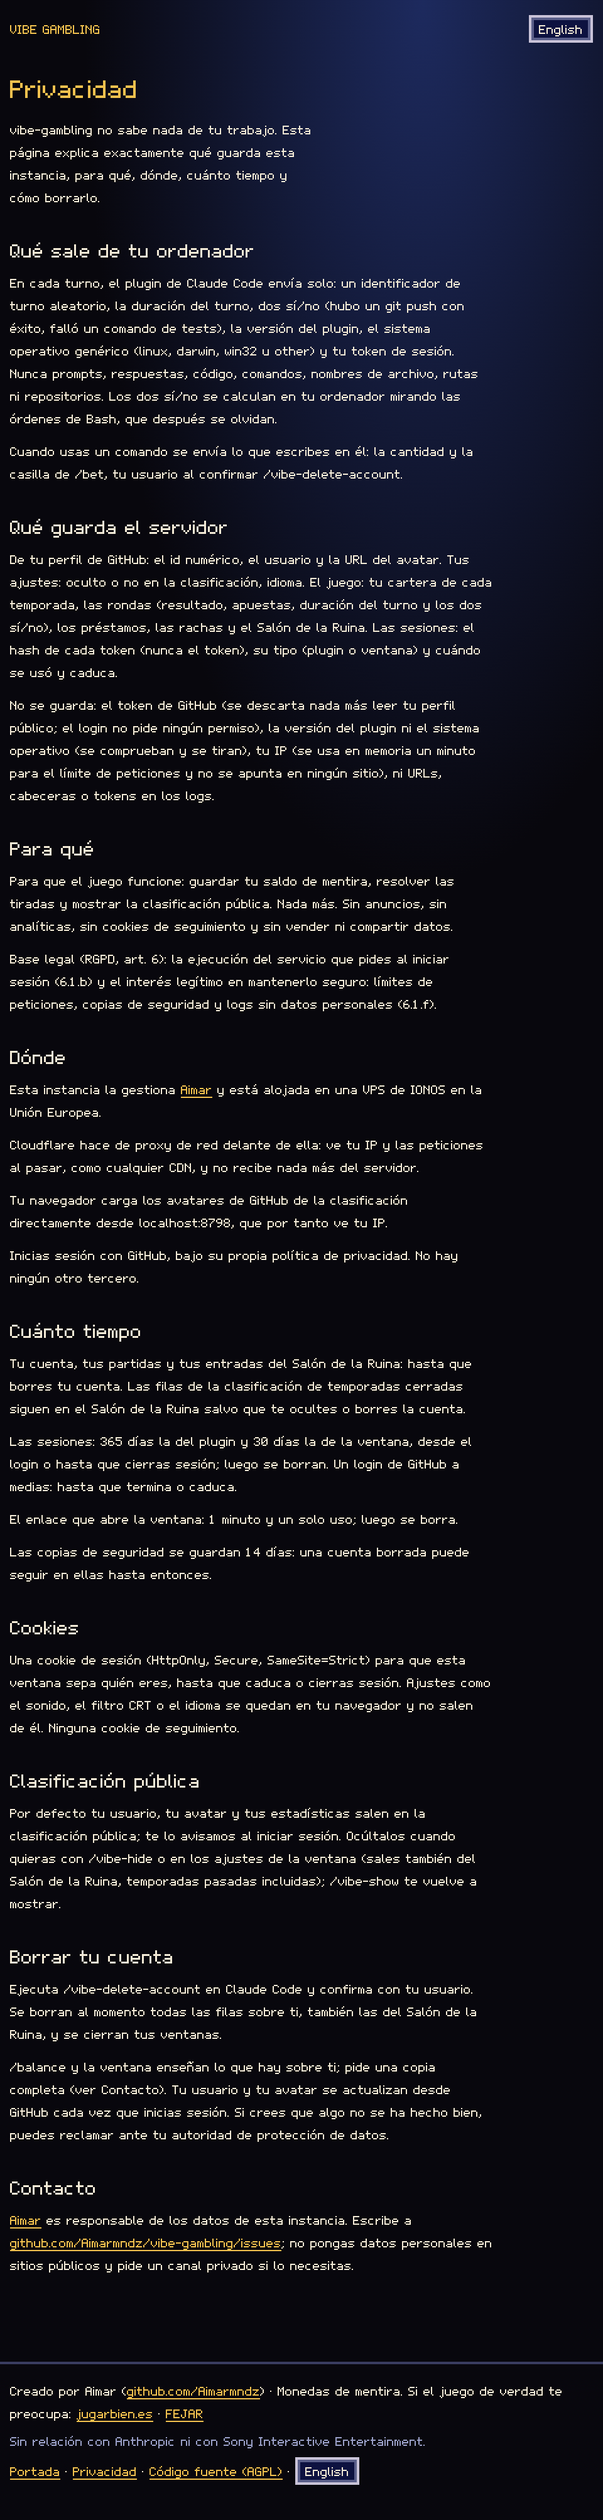
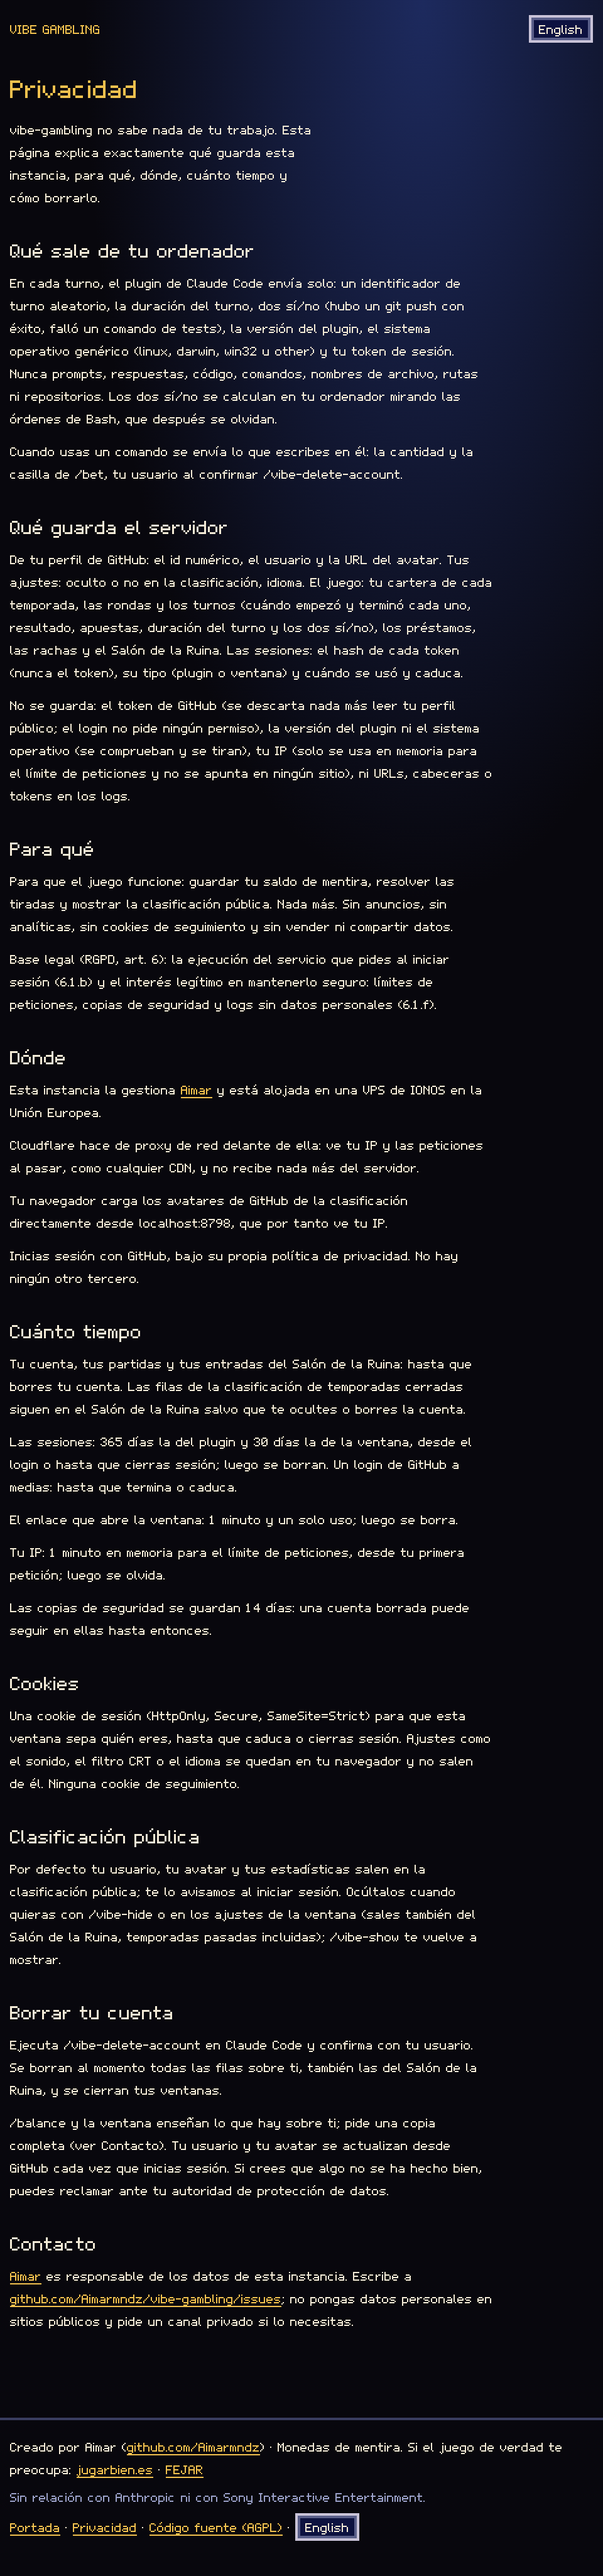
fix: cuenta en /privacy cuánto vive la IP en memoria y que se guarda la hora de cada turno

diff --git a/packages/web/src/i18n/es.ts b/packages/web/src/i18n/es.ts
@@ -291,9 +291,9 @@ export const es: Messages = {
     'Cuando usas un comando se envía lo que escribes en él: la cantidad y la casilla de /bet, tu usuario al confirmar /vibe-delete-account.',
   'privacy.stored.title': 'Qué guarda el servidor',
   'privacy.stored.body':
-    'De tu perfil de GitHub: el id numérico, el usuario y la URL del avatar. Tus ajustes: oculto o no en la clasificación, idioma. El juego: tu cartera de cada temporada, las rondas (resultado, apuestas, duración del turno y los dos sí/no), los préstamos, las rachas y el Salón de la Ruina. Las sesiones: el hash de cada token (nunca el token), su tipo (plugin o ventana) y cuándo se usó y caduca.',
+    'De tu perfil de GitHub: el id numérico, el usuario y la URL del avatar. Tus ajustes: oculto o no en la clasificación, idioma. El juego: tu cartera de cada temporada, las rondas y los turnos (cuándo empezó y terminó cada uno, resultado, apuestas, duración del turno y los dos sí/no), los préstamos, las rachas y el Salón de la Ruina. Las sesiones: el hash de cada token (nunca el token), su tipo (plugin o ventana) y cuándo se usó y caduca.',
   'privacy.stored.not':
-    'No se guarda: el token de GitHub (se descarta nada más leer tu perfil público; el login no pide ningún permiso), la versión del plugin ni el sistema operativo (se comprueban y se tiran), tu IP (se usa en memoria un minuto para el límite de peticiones y no se apunta en ningún sitio), ni URLs, cabeceras o tokens en los logs.',
+    'No se guarda: el token de GitHub (se descarta nada más leer tu perfil público; el login no pide ningún permiso), la versión del plugin ni el sistema operativo (se comprueban y se tiran), tu IP (solo se usa en memoria para el límite de peticiones y no se apunta en ningún sitio), ni URLs, cabeceras o tokens en los logs.',
   'privacy.why.title': 'Para qué',
   'privacy.why.body':
     'Para que el juego funcione: guardar tu saldo de mentira, resolver las tiradas y mostrar la clasificación pública. Nada más. Sin anuncios, sin analíticas, sin cookies de seguimiento y sin vender ni compartir datos.',
@@ -314,6 +314,8 @@ export const es: Messages = {
   'privacy.howLong.sessions':
     'Las sesiones: {mod} la del plugin y {web} la de la ventana, desde el login o hasta que cierras sesión; luego se borran. Un login de GitHub a medias: hasta que termina o caduca.',
   'privacy.howLong.link': 'El enlace que abre la ventana: {link} y un solo uso; luego se borra.',
+  'privacy.howLong.ip':
+    'Tu IP: {ip} en memoria para el límite de peticiones, desde tu primera petición; luego se olvida.',
   'privacy.howLong.backups':
     'Las copias de seguridad se guardan {backups}: una cuenta borrada puede seguir en ellas hasta entonces.',
   'privacy.howLong.noBackups': 'Esta instancia no hace copias de seguridad.',

diff --git a/packages/web/src/i18n/en.ts b/packages/web/src/i18n/en.ts
@@ -288,9 +288,9 @@ export const en = {
     'When you use a command, what you type in it is sent too: the amount and square of /bet, your login when confirming /vibe-delete-account.',
   'privacy.stored.title': 'What the server stores',
   'privacy.stored.body':
-    'From your GitHub profile: numeric id, login and avatar URL. Your settings: hidden from the leaderboard or not, language. The game: your wallet per season, rounds (result, bets, turn duration and the two flags), loans, streaks and the Hall of Ruin. Sessions: the hash of each token (never the token itself), its kind (plugin or window) and when it was used and expires.',
+    'From your GitHub profile: numeric id, login and avatar URL. Your settings: hidden from the leaderboard or not, language. The game: your wallet per season, rounds and turns (when each one started and ended, result, bets, turn duration and the two flags), loans, streaks and the Hall of Ruin. Sessions: the hash of each token (never the token itself), its kind (plugin or window) and when it was used and expires.',
   'privacy.stored.not':
-    'Not stored: the GitHub token (thrown away right after reading your public profile; login asks for no permissions), the plugin version or the OS (checked and dropped), your IP address (kept in memory for a minute for rate limiting, never written down), and no URLs, headers or tokens in the logs.',
+    'Not stored: the GitHub token (thrown away right after reading your public profile; login asks for no permissions), the plugin version or the OS (checked and dropped), your IP address (only held in memory for rate limiting, never written down), and no URLs, headers or tokens in the logs.',
   'privacy.why.title': 'Why',
   'privacy.why.body':
     'To run the game: keep your fake balance, resolve spins and show the public leaderboard. Nothing else. No ads, no analytics, no tracking cookies, no data sold or shared.',
@@ -311,6 +311,8 @@ export const en = {
   'privacy.howLong.sessions':
     'Sessions: {mod} for the plugin and {web} for the window, from login or until you log out; then they are deleted. An unfinished GitHub login: until it finishes or expires.',
   'privacy.howLong.link': 'The link that opens the window: {link}, single use; then it is deleted.',
+  'privacy.howLong.ip':
+    'Your IP address: {ip} in memory for rate limiting, counted from your first request; then it is forgotten.',
   'privacy.howLong.backups':
     'Backups are kept for {backups}, so a deleted account may remain in them until then.',
   'privacy.howLong.noBackups': 'This instance keeps no backups.',

diff --git a/packages/web/test/privacy.test.ts b/packages/web/test/privacy.test.ts
@@ -96,11 +96,26 @@ describe('página de privacidad', () => {
     expect(section(withInstance({ backupRetentionDays: 1 }), 'howLong')).toContain('for 1 day,')
   })
 
+  it('cuánto vive la IP en memoria sale de la ventana del límite del servidor', () => {
+    expect(section(testWebConfig, 'howLong')).toContain('Your IP address: 1 minute in memory')
+    const ten = withInstance({}, { ipMemorySeconds: 600 })
+    expect(section(ten, 'howLong')).toContain('Your IP address: 10 minutes in memory')
+    expect(section(ten, 'howLong', es)).toContain('Tu IP: 10 minutos en memoria')
+    // Lo que se guarda ya no promete un plazo escrito a mano.
+    expect(section(ten, 'stored')).not.toMatch(/minute/)
+    expect(section(ten, 'stored', es)).not.toMatch(/minuto/)
+  })
+
   it('el contacto enlaza al de la instancia', () => {
     const [p] = sectionParagraphs('contact', testWebConfig, en)
     const links = [...p!.querySelectorAll('a')].map(a => a.getAttribute('href'))
     expect(links).toEqual(['https://example.invalid/operator', 'https://example.invalid/contact'])
     expect(p!.textContent).toContain('example.invalid/contact')
+  })
+
+  it('cuenta que se guarda cuándo empezó y terminó cada turno', () => {
+    expect(section(testWebConfig, 'stored')).toMatch(/turns \(when each one started and ended/)
+    expect(section(testWebConfig, 'stored', es)).toMatch(/turnos \(cuándo empezó y terminó/)
   })
 
   it('cuenta el SO "other" y que no se guarda la IP', () => {
@@ -126,6 +141,15 @@ describe('fillParts', () => {
     const a = document.createElement('a')
     const parts = fillParts('{x} and {y}.', { x: a, y: 'text' })
     expect(parts).toEqual([a, ' and ', 'text', '.'])
+  })
+
+  it('un nodo repetido sale en todos sus marcadores (no se mueve de uno a otro)', () => {
+    const a = document.createElement('a')
+    a.textContent = 'link'
+    const p = document.createElement('p')
+    p.append(...fillParts('{x} and {x}', { x: a }))
+    expect(p.textContent).toBe('link and link')
+    expect(p.querySelectorAll('a')).toHaveLength(2)
   })
 
   it('deja a la vista los marcadores sin valor', () => {

diff --git a/packages/web/src/pages/privacy.ts b/packages/web/src/pages/privacy.ts
@@ -2,7 +2,7 @@
 // Contenido de la página /privacy. Lo que depende de la instancia (quién la opera, dónde está,
 // el proxy de red, el contacto, la retención de las copias) sale de `site.instance` de
 // /config.json, y lo que solo sabe el servidor (de dónde se cargan los avatares, cuánto duran las
-// sesiones y los enlaces) de `privacy`. Así una instancia autoalojada nunca dice que es la oficial.
+// sesiones y los enlaces, cuánto vive la IP en memoria) de `privacy`. Así una instancia autoalojada nunca dice que es la oficial.
 import type { WebConfig } from '@vibe-gambling/shared'
 
 import type { MessageKey, Translator } from '../i18n/index.ts'
@@ -30,12 +30,18 @@ type Part = string | Node
  */
 export function fillParts(template: string, parts: Readonly<Record<string, Part>>): Part[] {
   const out: Part[] = []
+  const used = new Set<Node>()
   let last = 0
   for (const match of template.matchAll(/\{(\w+)\}/g)) {
     const value = parts[match[1]!]
     if (value === undefined) continue
     if (match.index > last) out.push(template.slice(last, match.index))
-    out.push(value)
+    // Un nodo solo puede estar en un sitio del DOM: si el marcador se repite, va una copia.
+    if (typeof value !== 'string' && used.has(value)) out.push(value.cloneNode(true))
+    else {
+      if (typeof value !== 'string') used.add(value)
+      out.push(value)
+    }
     last = match.index + match[0].length
   }
   if (last < template.length) out.push(template.slice(last))
@@ -124,6 +130,7 @@ export function sectionParagraphs(
           web: formatDuration(web.privacy.webSessionTtlSeconds, tr),
         }),
         text('privacy.howLong.link', { link: formatDuration(web.privacy.linkCodeTtlSeconds, tr) }),
+        text('privacy.howLong.ip', { ip: formatDuration(web.privacy.ipMemorySeconds, tr) }),
         instance.backupRetentionDays === null
           ? text('privacy.howLong.noBackups')
           : text('privacy.howLong.backups', {

diff --git a/packages/shared/src/protocol/http.ts b/packages/shared/src/protocol/http.ts
@@ -326,7 +326,8 @@ export type InstanceInfo = z.output<typeof instanceInfoSchema>
 
 /**
  * Lo que la página `/privacy` cuenta y solo sabe el servidor (sale de su entorno): de dónde carga
- * imágenes el navegador (los avatares) y cuánto duran las sesiones y los enlaces.
+ * imágenes el navegador (los avatares), cuánto duran las sesiones y los enlaces, y cuánto vive la
+ * IP en memoria.
  */
 export const privacyFactsSchema = z
   .object({
@@ -335,6 +336,8 @@ export const privacyFactsSchema = z
     modSessionTtlSeconds: z.number().int().positive(),
     webSessionTtlSeconds: z.number().int().positive(),
     linkCodeTtlSeconds: z.number().int().positive(),
+    /** Cuánto se queda la IP en memoria para el límite de peticiones (su ventana), en segundos. */
+    ipMemorySeconds: z.number().int().positive(),
   })
   .strict()
 export type PrivacyFacts = z.output<typeof privacyFactsSchema>

diff --git a/packages/shared/test/urls.test.ts b/packages/shared/test/urls.test.ts
@@ -47,6 +47,7 @@ const webConfig = {
     modSessionTtlSeconds: 31_536_000,
     webSessionTtlSeconds: 2_592_000,
     linkCodeTtlSeconds: 60,
+    ipMemorySeconds: 60,
   },
   site: {
     author: { name: 'Author', url: 'https://example.test/author' },
@@ -201,5 +202,10 @@ describe('datos de la instancia (/privacy)', () => {
     expect(webConfigSchema.safeParse(withValue(['privacy', 'linkCodeTtlSeconds'], 0)).success).toBe(
       false,
     )
+    expect(webConfigSchema.safeParse(withValue(['privacy', 'ipMemorySeconds'], 0)).success).toBe(
+      false,
+    )
+    const { ipMemorySeconds: _ip, ...withoutIp } = webConfig.privacy
+    expect(webConfigSchema.safeParse({ ...webConfig, privacy: withoutIp }).success).toBe(false)
   })
 })

diff --git a/packages/web/vite.config.ts b/packages/web/vite.config.ts
@@ -37,6 +37,7 @@ const serverDevEnvSchema = z.object({
   MOD_SESSION_TTL_SECONDS: z.coerce.number().int().positive(),
   WEB_SESSION_TTL_SECONDS: z.coerce.number().int().positive(),
   LINK_CODE_TTL_SECONDS: z.coerce.number().int().positive(),
+  RATE_LIMIT_IP_WINDOW_MS: z.coerce.number().int().positive(),
 })
 
 function serverDevPrivacy() {
@@ -53,6 +54,7 @@ function serverDevPrivacy() {
     modSessionTtlSeconds: env.MOD_SESSION_TTL_SECONDS,
     webSessionTtlSeconds: env.WEB_SESSION_TTL_SECONDS,
     linkCodeTtlSeconds: env.LINK_CODE_TTL_SECONDS,
+    ipMemorySeconds: Math.ceil(env.RATE_LIMIT_IP_WINDOW_MS / 1000),
   }
 }
 

diff --git a/packages/server/src/http/public.ts b/packages/server/src/http/public.ts
@@ -61,6 +61,8 @@ export async function publicRoutes(parent: FastifyInstance, options: PublicOptio
       modSessionTtlSeconds: env.MOD_SESSION_TTL_SECONDS,
       webSessionTtlSeconds: env.WEB_SESSION_TTL_SECONDS,
       linkCodeTtlSeconds: env.LINK_CODE_TTL_SECONDS,
+      // El almacén del rate limit borra cada IP al vencer su ventana (lib/rate-limit-store.ts).
+      ipMemorySeconds: Math.ceil(env.RATE_LIMIT_IP_WINDOW_MS / 1000),
     },
     site: config.site,
   })

diff --git a/packages/web/test/fixtures.ts b/packages/web/test/fixtures.ts
@@ -39,6 +39,7 @@ export const testWebConfig: WebConfig = webConfigSchema.parse({
     modSessionTtlSeconds: 31_536_000,
     webSessionTtlSeconds: 2_592_000,
     linkCodeTtlSeconds: 60,
+    ipMemorySeconds: 60,
   },
   site: {
     author: { name: 'Tester', url: 'https://example.invalid/tester' },

diff --git a/packages/server/test/integration/http.test.ts b/packages/server/test/integration/http.test.ts
@@ -80,6 +80,8 @@ describe('rutas públicas', () => {
       modSessionTtlSeconds: 31_536_000,
       webSessionTtlSeconds: 3600,
       linkCodeTtlSeconds: 60,
+      // La ventana del límite por IP (RATE_LIMIT_IP_WINDOW_MS de test), en segundos.
+      ipMemorySeconds: 60,
     })
   })
 

diff --git a/docs/PRIVACIDAD.md b/docs/PRIVACIDAD.md
@@ -33,12 +33,12 @@ Los dos sí/no se calculan **en tu ordenador** mirando las órdenes de Bash, que
 
 ### Qué se guarda y para qué
 
-| Dato                                                                                                                                        | Para qué                                |
-| ------------------------------------------------------------------------------------------------------------------------------------------- | --------------------------------------- |
-| De GitHub: id numérico, login y URL del avatar                                                                                              | Identificarte y mostrarte en el ranking |
-| Tus ajustes: oculto o no en el ranking, idioma                                                                                              | Respetar tus preferencias               |
-| El juego: cartera de cada temporada, rondas (resultado, apuestas, duración del turno y los dos sí/no), préstamos, rachas, Salón de la Ruina | Que el juego funcione y el ranking      |
-| Sesiones: el **hash** de cada token, su tipo (plugin o ventana) y fechas de uso y caducidad                                                 | Mantenerte con la sesión iniciada       |
+| Dato                                                                                                                                                                                   | Para qué                                |
+| -------------------------------------------------------------------------------------------------------------------------------------------------------------------------------------- | --------------------------------------- |
+| De GitHub: id numérico, login y URL del avatar                                                                                                                                         | Identificarte y mostrarte en el ranking |
+| Tus ajustes: oculto o no en el ranking, idioma                                                                                                                                         | Respetar tus preferencias               |
+| El juego: cartera de cada temporada, rondas y turnos (cuándo empezó y terminó cada uno, resultado, apuestas, duración del turno y los dos sí/no), préstamos, rachas, Salón de la Ruina | Que el juego funcione y el ranking      |
+| Sesiones: el **hash** de cada token, su tipo (plugin o ventana) y fechas de uso y caducidad                                                                                            | Mantenerte con la sesión iniciada       |
 
 **No se guarda:** el token de GitHub (se descarta nada más leer tu perfil; el login no pide ningún permiso, solo el perfil público), la versión del plugin ni el SO (se comprueban y se tiran), tu IP (solo se usa en memoria durante un minuto para el límite de peticiones), ni ninguna URL, cabecera o token en los logs.
 
@@ -114,12 +114,12 @@ Both yes/no flags are computed **on your computer** by looking at Bash commands,
 
 ### What is stored and why
 
-| Data                                                                                                              | Why                                             |
-| ----------------------------------------------------------------------------------------------------------------- | ----------------------------------------------- |
-| From GitHub: numeric id, login and avatar URL                                                                     | To identify you and show you on the leaderboard |
-| Your settings: hidden from the leaderboard or not, language                                                       | To respect your preferences                     |
-| The game: wallet per season, rounds (result, bets, turn duration and the two flags), loans, streaks, Hall of Ruin | To run the game and the leaderboard             |
-| Sessions: the **hash** of each token, its kind (plugin or window), usage and expiry dates                         | To keep you logged in                           |
+| Data                                                                                                                                                         | Why                                             |
+| ------------------------------------------------------------------------------------------------------------------------------------------------------------ | ----------------------------------------------- |
+| From GitHub: numeric id, login and avatar URL                                                                                                                | To identify you and show you on the leaderboard |
+| Your settings: hidden from the leaderboard or not, language                                                                                                  | To respect your preferences                     |
+| The game: wallet per season, rounds and turns (when each one started and ended, result, bets, turn duration and the two flags), loans, streaks, Hall of Ruin | To run the game and the leaderboard             |
+| Sessions: the **hash** of each token, its kind (plugin or window), usage and expiry dates                                                                    | To keep you logged in                           |
 
 **Not stored:** the GitHub token (thrown away right after reading your profile; login asks for no permissions, only the public profile), the plugin version or the OS (checked and dropped), your IP (only kept in memory for a minute for rate limiting), and no URLs, headers or tokens in the logs.
 

diff --git a/docs/DECISIONES.md b/docs/DECISIONES.md
@@ -143,6 +143,7 @@ Las decisiones de servidor, web, mod y despliegue se añaden aquí según se tom
 | Los intentos de abrir `/ws` cuentan por IP real con su propio cupo (`RATE_LIMIT_IP_*`); al pasarse, cierre `4429`                                                                                                                               | Abrir y cerrar sockets era una forma de hacer consultas de sesión sin pasar por el rate limit de `/api`.                                                                                                                                                                                                                                      |
 | Rate limit de IPv6 por prefijo (`RATE_LIMIT_IPV6_PREFIX`, 64 por defecto en los ejemplos)                                                                                                                                                       | Cualquier conexión doméstica recibe al menos un /64: estrenando una dirección por petición se saltaba el límite por IP.                                                                                                                                                                                                                       |
 | Duración de HSTS en `HSTS_MAX_AGE_SECONDS`                                                                                                                                                                                                      | Estaba escrita en el código.                                                                                                                                                                                                                                                                                                                  |
+| Almacén propio del rate limit (`lib/rate-limit-store.ts`): cada clave (la IP) se borra al vencer su ventana, con tope `RATE_LIMIT_MAX_KEYS`; `/config.json` publica la ventana como `privacy.ipMemorySeconds`                                   | El de `@fastify/rate-limit` es un LRU sin caducidad: una IP se quedaba en memoria hasta que 5000 claves más la empujaban fuera, y `/privacy` prometía "un minuto" escrito a mano                                                                                                                                                              |
 
 ## Despliegue
 
